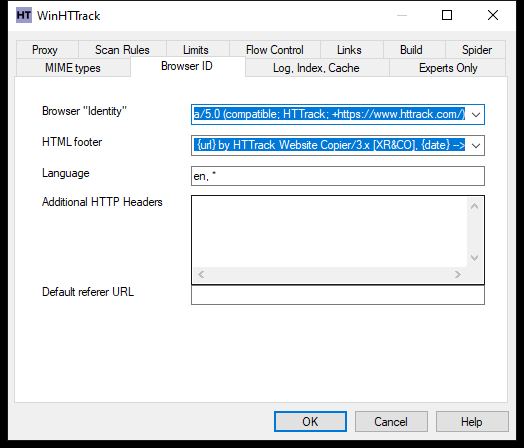
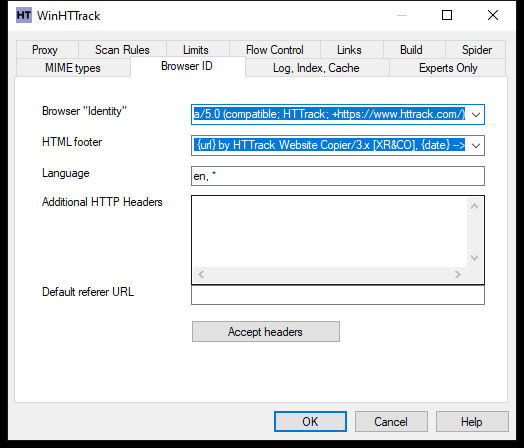
Show the WinHTTrack Accept headers window in the guide (#1978)
The WinHTTrack Browser ID image now shows the Accept headers button, and
the guide's Accept headers entry shows the new window, both from
httrack-works 3d1dfbc. Rerunning `tools/doc-images.py` also changed two
Android images, from the earlier Android reshoot 4b9abf7. I left those
out on purpose, so this PR touches only the Windows images.

Changed region(s): [[0.3664, 0.7188, 0.6718, 0.7812]]

diff --git a/html/guide.html b/html/guide.html
@@ -639,6 +639,9 @@ bottom are the ones that keep you welcome.</p>
 	is the old HTTrack value. On the command line, <code>--accept 'image=image/png,*/*'</code> sets
 	one kind. A value with no kind replaces every row left on Automatic.</p>
 	<p data-for="win">The rows open in their own window, from the Accept headers button.</p>
+	<figure data-for="win">
+		<img data-for="win" src="img/guide-win-opt-accept-headers.png" alt="WinHTTrack Accept headers window" width="586" height="445">
+	</figure>
 </div>
 
 <div class="opt" data-for="win web">

diff --git a/tools/doc-images.py b/tools/doc-images.py
@@ -45,6 +45,7 @@ SCREENS = {
         "10_options_browser_id",
         "10_options_browser_id",
     ),
+    "opt-accept-headers": ("12b_options_accept_headers", None, None),
     "opt-spider": ("10_options_spider", "12_options_spider", "11_options_spider"),
     "opt-proxy": ("04_options_proxy", "14_options_proxy", "12_options_proxy_address"),
     "opt-log-index-cache": (
